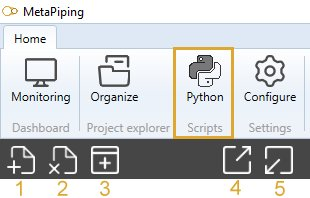
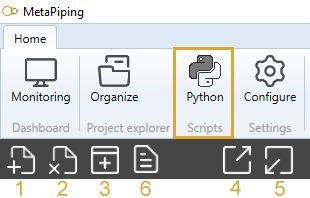
Study 2/2

diff --git a/Explorer/Study.md b/Explorer/Study.md
@@ -45,3 +45,79 @@ Click **Edit** (6) to start an empty design.
 
 Click [here](https://documentation.metapiping.com/Design/index.html) to have more information about the design.
 
+## 3. Bricks
+
+### 3.1 File
+
+This create a brick that let you import a file of any extension.
+
+![Image](../Images/Study3.jpg)
+
+This is usefull only for Python script that need a file as input (Ex : Excel file or Text file).
+
+Click on the button to open a search file dialog.
+
+Use the connector to send the file to another brick as an input.
+
+### 3.2 PCF
+
+The **plugin** PCF let you import *.pcf files.
+
+![Image](../Images/Study4.jpg)
+
+Open a file and connect it to the **MetaL** connector of the **Study brick**.
+
+This will convert the PCF to the MetaL file format.
+
+### 3.3 PIPSYS
+
+The **plugin** PIPSYS let you import files with several extensions.
+
+![Image](../Images/Study5.jpg)
+
+Open a file and connect it to the **MetaL** connector of the **Study brick**.
+
+This will convert the PIPSYS to the MetaL file format.
+
+### 3.4 PIPESTRESS
+
+The **plugin** PIPESTRESS let you import *.fre (and *.thf files).
+
+The Time History File is not mandatory and depend on the correspondinf FRE file.
+
+![Image](../Images/Study6.jpg)
+
+Open a file and connect it to the **MetaL** connector of the **Study brick**.
+
+This will convert the FRE to the MetaL file format.
+
+The **plugin** PIPESTRESS let you also import POSTR files for postprocessing.
+
+![Image](../Images/Study7.jpg)
+
+Open a file and connect it to the **Solution** connector of the **Solver brick**.
+
+It will produce a text file (in the result cell) that can be edited by **double click**.
+
+You can specify your favorite text editor in the settings.
+
+The **plugin** PIPESTRESS let you also configure all bricks by just importing a *.fre file. It checks if a *.thf file is needed, set the Solver to PIPESTRESS and make all connections automatically.
+
+![Image](../Images/Study8.jpg)
+
+### 3.5 Python
+
+You can create your own **brick** thanks to the Python scripts.
+
+![Image](../Images/PythonStudy2.jpg)
+
+Click [here](https://documentation.metapiping.com/Python/index.html) to have more information about the script creation.
+
+### 3.6 Comment
+
+This create a brick with text and color capabilities.
+
+Usefull to show the state of progress of the study to other users. A conventionnal color code can be established.
+
+![Image](../Images/Study9.jpg)
+

diff --git a/Python/Samples/info.md b/Python/Samples/info.md
@@ -1,0 +1,62 @@
+---
+layout: default
+title: Study info
+nav_order: 10
+parent: Samples
+grand_parent: Python
+---
+
+# Sample 10 : Show informations about a study
+
+## 1. Goal
+
+Create a script that will show informations about the MetaL and the results of the current selected study in **Explorer**.
+
+>In this example, we will just access the **MetaL** file and retrieve the number of nodes then access the **solution** and retrieve the maxStressRatio value.
+
+## 2. Script definition
+
+From the Home/Python, click on **button 6** (Add simple script) :
+
+![Image](../../Images/PythonMenu.jpg)
+
+Give it the name "Show study infos"
+
+## 3. main.py
+
+Select the file.
+
+Copy/paste this code in the Editor :
+
+```python
+metal = study.getMetal()
+if metal != None:
+    study.showInformation('Model', '')
+    study.showInformation('====', '')
+    nb = metal.Nodes.Count
+    study.showInformation('Nb noeuds', str(nb))
+
+study.showInformation('', '')
+
+solution = study.getSolution()
+if solution != None:
+    study.showInformation('Solution', '')
+    study.showInformation('======', '')
+    maxStressRatio = solution.getMaxStressRatio()
+    study.showInformation('Max stress ratio', str(maxStressRatio))
+```
+Save it !
+
+Click [here](https://documentation.metapiping.com/Python/Classes/study.html) to have more information about the object **study**.
+
+## 4. Settings
+
+Restart the application and go to the **settings**. In the tab **General**, change the "Default study information script" to "Show study infos" (our current script) :
+
+![Image](../../Images/Settings2.jpg)
+
+## 5. Result
+
+In **Explorer of project**, select a study and visualize the informations :
+
+![Image](../../Images/Explorer7.jpg)

diff --git a/Settings/Databases/Piping.md b/Settings/Databases/Piping.md
@@ -36,8 +36,10 @@ Each size exists in different schedules. click on **+** button to add schedules 
     To know the UNIT of a property, just let the mouse over the property name. 
     For example : mm for the Outside diameter
 
+{: .warning }
 >ATTENTION, the name of the pipe size is very important (Ex : 4"). It will be used as a **reference** for all other piping elements. The american notation is used even in metric definition.
 
+{: .warning }
 >ATTENTION, the sizes must be defined in an **ascending** order.
 
 ## 2. Bends
@@ -54,6 +56,7 @@ Standard radius and mass can be entered :
 | Small radius | m | ft |
 | Mass | ton | kips | 
 
+{: .warning }
 >ATTENTION, for a better readability, we recommend to enter the sizes in **ascending** order. 
 
 ## 3. Reducers
@@ -71,6 +74,7 @@ Length and mass can be entered :
 | Length | m | ft | 
 | Mass | ton | kips | 
 
+{: .warning }
 >ATTENTION, for a better readability, we recommend to enter the sizes in **ascending** order. 
 
 ## 4. Welding tees
@@ -83,6 +87,7 @@ To add **welding tee** properties for each pipe sizes, click on **+** button and
 
 ![Image](../../Images/Piping6.jpg)
 
+{: .warning }
 >ATTENTION, for a better readability, we recommend to enter the sizes in **ascending** order.
 
 | Property | Unit Metric | Unit USA | 
@@ -108,6 +113,7 @@ To add **flange** properties for each pipe sizes, click on **+** button and sele
 
 ![Image](../../Images/Piping7.jpg)
 
+{: .warning }
 >ATTENTION, for a better readability, we recommend to enter the sizes in **ascending** order.
 
 For this size, create several **Ratings** (max service pressure). It is a text and is just informative (Ex : 50).

diff --git a/Python/index.md b/Python/index.md
@@ -15,6 +15,7 @@ A script contains one or more *.py files in a **python virtual environment**.
 
 **Main.py** is mantadory and represents the main access of the script.
 
+{: .warning }
 >ATTENTION, the use of libraries take place on the disk ! To be used with care.
 
 ---
@@ -40,6 +41,7 @@ On the upper left menu, a list of buttons proposes several tools :
 3. Create a script for **design** level - [See Design page for more information](https://documentation.metapiping.com/Python/design.html) 
 4. Export a script - [See Pyckage page for more information](https://documentation.metapiping.com/Python/Pyckage.html) 
 5. Import a script - [See Pyckage page for more information](https://documentation.metapiping.com/Python/Pyckage.html) 
+6. Create a script for **explorer** level - [See Info page for more information](https://documentation.metapiping.com/Python/Info.html) 
 
 ---
 ## Screen
@@ -55,4 +57,5 @@ The screen is made up of different parts :
 5. The chatGPT help - [See chatGPT page for more information](https://documentation.metapiping.com/Python/chatGPT.html) 
 6. The Python **Editor** - or image viewer if you select an image in the file explorer (2)
 
+{: .warning }
 >ATTENTION : The installation of libraries and the chatGPT help need an internet connection !

diff --git a/Python/Info.md b/Python/Info.md
@@ -7,4 +7,38 @@ parent: Python
 
 # Info script
 
-Documentation will come soon...
+In the explorer of projects, user can show informations about the model and/or the results of a study via a special python script :
+
+![Image](../Images/Explorer7.jpg)
+
+This script do not use ***Python Virtual Environment*** and is so very fast.
+
+## 1. Script definition
+
+From the Home/Python, click on button 6 (Add simple script) :
+
+![Image](../Images/PythonMenu.jpg)
+
+Give it a name.
+
+A new *main.py* will be created in the file explorer and *Inputs* and *Outputs* nodes in the Project script. Requirements.txt is hidden and the Editor is empty :
+
+![Image](../Images/PythonInfo1.jpg)
+
+In the Editor, you have access to the object **study** that exposes some functions. A dropdown menu will appear after writing :
+
+```python
+study.
+```
+
+![Image](../Images/PythonStudy4.jpg)
+
+The main usefull functions are ***getMetal()***, ***getSolution()*** and  ***showInformation()***
+
+[See the description of the object study](https://documentation.metapiping.com/Python/Classes/study.html)
+
+---
+
+## 2. Example
+
+[See an example here](https://documentation.metapiping.com/Python/Samples/info.html) : Show informations about a study

diff --git a/Settings/Specifications.md b/Settings/Specifications.md
@@ -19,6 +19,7 @@ It brings together a variety of information :
 
 Click the **+** button to add a new specification or click the **-** button to remove an **unused** one.
 
+{: .warning }
 >ATTENTION, do not remove specification used in one or more projects otherwise the opening will be compromised.
 
 ## 1. Header
@@ -35,9 +36,10 @@ Properties :
 - Material library              - See [Materials](https://documentation.metapiping.com/Settings/Databases/Materials.html) for more information
 - Piping library                - See [Piping](https://documentation.metapiping.com/Settings/Databases/Piping.html) for more information
 
-
+{: .warning }
 > ATTENTION, a specification has UNITS, so only libraries of materials and piping elements with the same UNITS can be connected.
 
+{: .warning }
 > ATTENTION, when starting a new project, be sure to select a specification that will be compatible with the Units, Code and Edition of the project and do not change these 3 properties during design.
 
 ## 2. Elements

diff --git a/Explorer/index.md b/Explorer/index.md
@@ -62,6 +62,14 @@ A **Python script** can be created to explore the current **MetaL** and **result
 
 ![Image](../Images/Explorer7.jpg)
 
-Click [here](https://documentation.metapiping.com/Python/info.html) to have more information about python script creation for a project.
+Click [here](https://documentation.metapiping.com/Python/Info.html) to have more information about python script creation for a project.
 
 Click [here](https://documentation.metapiping.com/Settings/General.html) to see how to define a python script as default "information script" in the settings.
+
+## 4. External opening
+
+User can **Right click** a *.fre file in Windows explorer and ask to open it with MetaPiping.
+
+A project will be created with a study and a complete connection of the internal MetaL to this file + solver PIPESTRESS.
+
+Click [here](https://documentation.metapiping.com/Explorer/Study.html) to have more information about PIPESTRESS **bricks**.

diff --git a/Python/Classes/study.md b/Python/Classes/study.md
@@ -24,6 +24,7 @@ The **study** object gives access to several methods and can be used only in [Pr
 | getSolution() | solution | Access to current Solution object of the study |
 | getMaterialLibraryModel() | materialLibraryModel | Access to a material library by its name (without .materials) |
 | createMaterialLibraryModel() | materialLibraryModel | Create a material library by a name (without .materials) |
+| showInformation() | - | Add a string into the description of a strudy |
 
 See [metal](https://documentation.metapiping.com/Python/Classes/metal.html) for more information.
 

diff --git a/Explorer/Project.md b/Explorer/Project.md
@@ -42,8 +42,10 @@ This new study become the **current study** shown in the main panel (3).
 
 Select a study in the **container** (2) and click to **Delete study** to remove the selected study (and all it contains).
 
+{: .warning }
 >ATTENTION, this action is irreversible
 
+{: .warning }
 >ATTENTION, You cannot remove the current study if it is the only one
 
 After deleting, the first study of the project become the current study shown in the main panel (3).

diff --git a/Settings/Databases/Materials.md b/Settings/Databases/Materials.md
@@ -47,4 +47,5 @@ Click the **+** button (next to Properties) to add a new row of properties for a
 
 See [Units](https://documentation.metapiping.com/Design/units.html) for more informations.
 
+{: .warning }
 >ATTENTION, temperatures must be entered in ascending order!

diff --git a/Settings/Databases/Spectra.md b/Settings/Databases/Spectra.md
@@ -51,6 +51,7 @@ Fill the tables by adding rows for the pair frequency/acceleration.
 | Frequency | Hz | 
 | Acceleration | G's | 
 
+{: .warning }
 >ATTENTION, the frequencies must be filled in ascending order
 
     Each table can have its own number of rows
